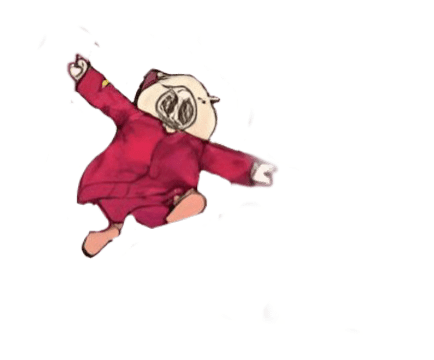
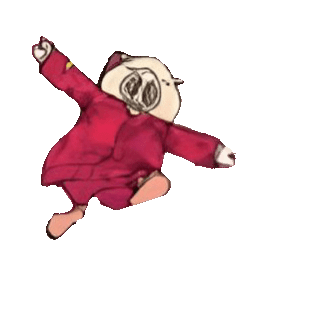
fix image scalings

Changed region(s): [[0.0917, 0.0917, 0.7339, 0.7339]]

diff --git a/sr6931/sketch.js b/sr6931/sketch.js
@@ -3,16 +3,16 @@ let maskImg, mouseImg, pigImg, ring1Img, ring2Img, ring3Img, ring4Img, tigerImg,
 
 const baseWidth = 1920;
 const baseHeight = 1080;
-let scaleX, scaleY;
+let scaleX, scaleY, scaleXY;
 
 let elementPositions = {
   temple: { x: 1582, y: 464, size: 300 },
-  bear: { x: 760, y: 383, size: 250 },
-  bunny: { x: 1860, y: 530, size: 150 },
-  cat: { x: 1400, y: 400, size: 180 },
-  tiger: { x: 1280, y: 400, size: 120 },
-  mask: { x: 1450, y: 700, size: 1050 },
-  mouse: { x: 1618, y: 420, size: 200 },
+  bear: { x: 760, y: 383, size: 280 },
+  bunny: { x: 1900, y: 520, size: 230 },
+  cat: { x: 1440, y: 390, size: 200 },
+  tiger: { x: 1290, y: 400, size: 120 },
+  mask: { x: 1450, y: 700, size: 1040 },
+  mouse: { x: 1630, y: 400, size: 200 },
   pig: { x: 1700, y: 458, size: 150 },
   ring1: { x: 1080, y: 650, size: 1.9 },
   ring2: { x: 1080, y: 630, size: 1.5 },
@@ -90,6 +90,7 @@ function draw() {
 function calculateScalingFactors() {
   scaleX = windowWidth / baseWidth;
   scaleY = windowHeight / baseHeight;
+  scaleXY = max(scaleX, scaleY);
 }
 
 function drawBackground() {
@@ -101,7 +102,7 @@ function placeElements() {
     x: elementPositions.temple.x * scaleX,
     y: elementPositions.temple.y * scaleY
   };
-  image(templeImg, templePos.x, templePos.y, elementPositions.temple.size * scaleX, elementPositions.temple.size * scaleY);
+  image(templeImg, templePos.x, templePos.y, elementPositions.temple.size * scaleXY, elementPositions.temple.size * scaleXY);
 
   let bearPos = {
     x: (elementPositions.bear.x + bearFlyX) * scaleX,
@@ -133,7 +134,7 @@ function placeElements() {
     push();
     translate(bearPos.x, bearPos.y);
     scale(bearScale);
-    image(bearImg, 0, 0, elementPositions.bear.size * scaleX, elementPositions.bear.size * scaleY);
+    image(bearImg, 0, 0, elementPositions.bear.size * scaleXY, elementPositions.bear.size * scaleXY);
     pop();
   } else {
     textSize(20 * scaleX);
@@ -149,7 +150,7 @@ function placeElements() {
         x: elementPositions[el].x * scaleX,
         y: elementPositions[el].y * scaleY
       };
-      image(eval(el + 'Img'), pos.x, pos.y, elementPositions[el].size * scaleX, elementPositions[el].size * scaleY);
+      image(eval(el + 'Img'), pos.x, pos.y, elementPositions[el].size * scaleXY, elementPositions[el].size * scaleXY);
     });
 
     let maskPos = {
@@ -159,7 +160,7 @@ function placeElements() {
     push();
     translate(maskPos.x, maskPos.y);
     rotate(radians(-30));
-    image(maskImg, 0, 0, elementPositions.mask.size * scaleX, elementPositions.mask.size * scaleY);
+    image(maskImg, 0, 0, elementPositions.mask.size * scaleXY, elementPositions.mask.size * scaleXY);
     pop();
 
     for (let i = 1; i <= 4; i++) {
